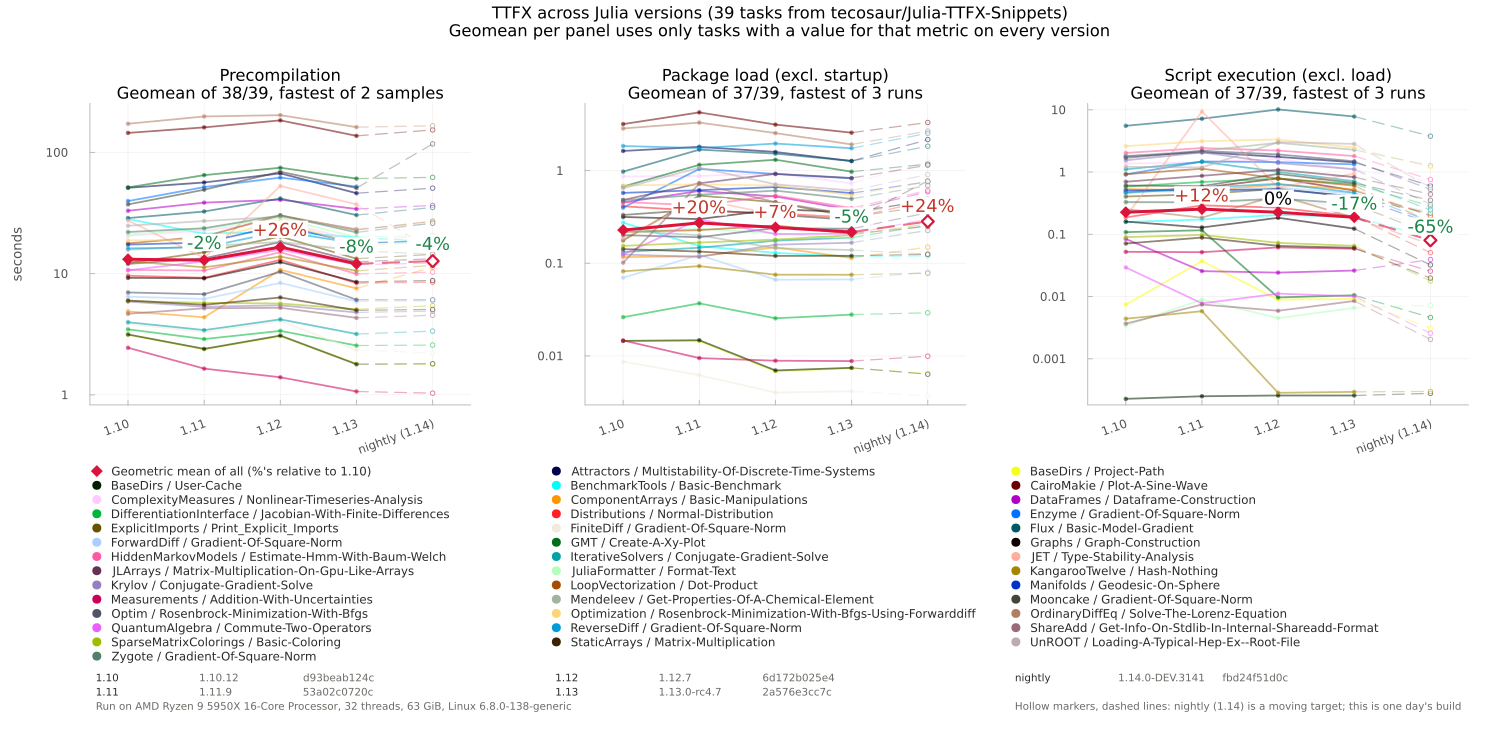
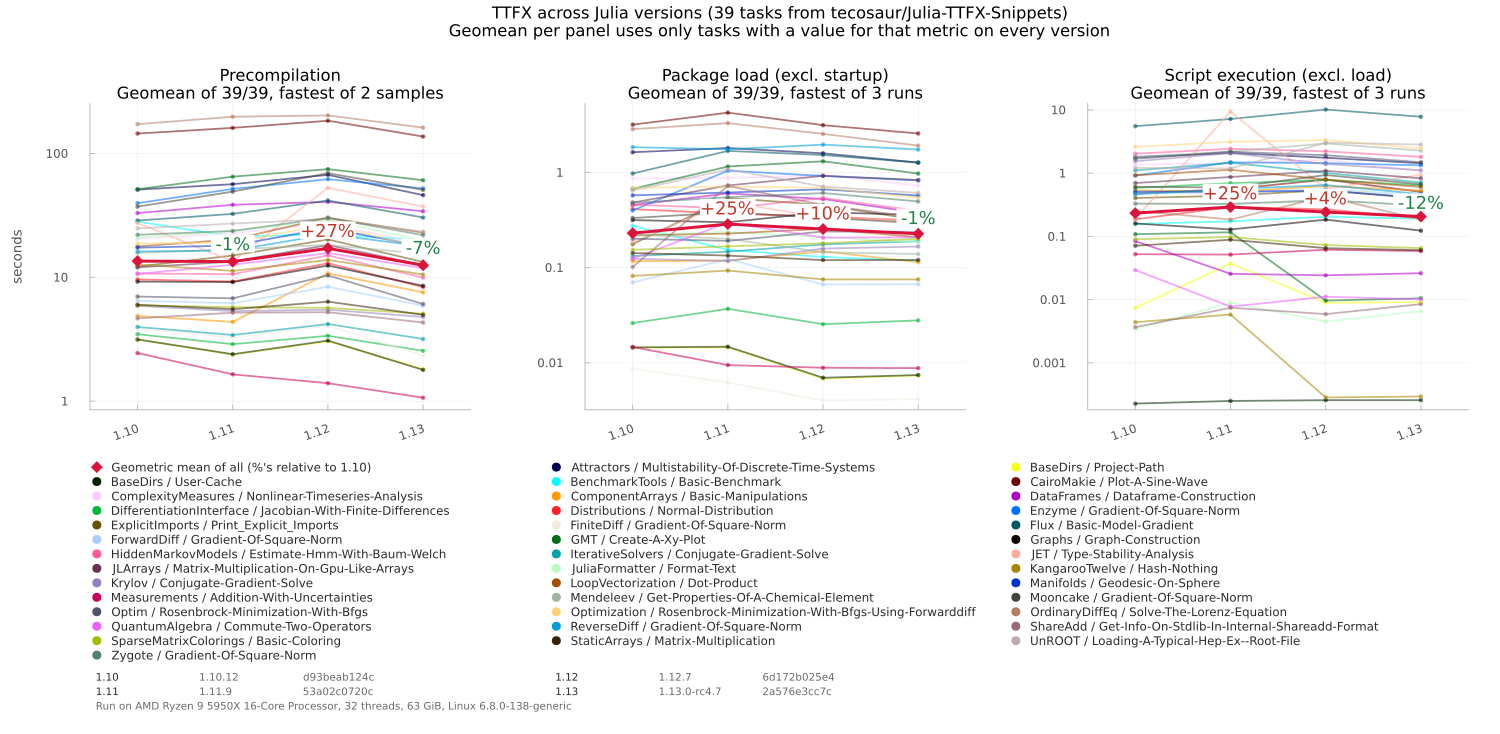
ttfx: remove nightly

diff --git a/blog/2026/09/julia-1.13-highlights.md b/blog/2026/09/julia-1.13-highlights.md
@@ -35,7 +35,7 @@ julia> # short, self-contained example
 
 *Ian Butterworth*, *many others*
 
-Julia 1.13 precompiles packages roughly 30% faster than 1.12 and roughly 20% faster than 1.10 (LTS).
+Julia 1.13 precompiles packages roughly 30% faster than 1.12, and is roughly 10-20% faster than 1.10 (LTS) depending on the machine.
 
 Time To First eXecution (TTFX), the time from starting Julia to getting a first result, is made up of three main costs: precompiling packages, loading them, and running the code. With the help of the community-submitted workflows at [Julia-TTFX-Snippets](https://github.com/tecosaur/Julia-TTFX-Snippets), we have started measuring these costs more systematically on real-world examples and optimizing Julia against them.
 
@@ -53,8 +53,6 @@ The plots below cover all 39 currently submitted snippets, measured across Julia
 ![TTFX results on an AMD Ryzen 9 5950X Linux machine](/assets/blog/2026-1.13-highlights/TTFX-linux.png)
 
 This monitoring is now also part of Julia's own development process: new TTFX CI jobs run on relevant pull requests and on every commit to `master`, and the results are tracked at [perf.julialang.org/ttfx](https://perf.julialang.org/ttfx). (That tracking went live on September 7, 2026; measurements before then were ad hoc.)
-
-Julia 1.14 is gaining features and capabilities, yet is shaping up to be faster still, with a new global object code cache that significantly reduces recompilation in the JIT, and package load time improvements on the horizon.
 
 
 ## REPL improvements
